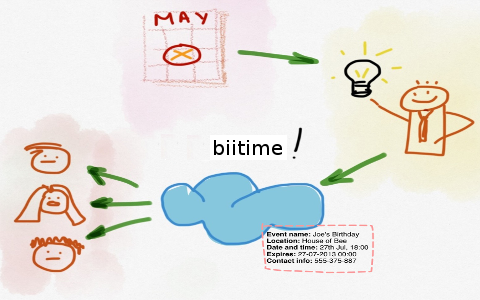
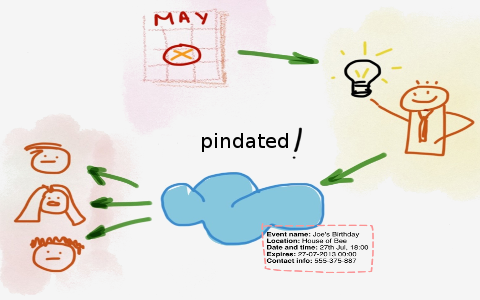
Changed name

Changed region(s): [[0.4062, 0.45, 0.625, 0.54]]

diff --git a/index_es.html b/index_es.html
@@ -2,7 +2,7 @@
 <html lang="es">
   <head>
     <meta charset="utf-8">
-    <title>biitime</title>
+    <title>pindated</title>
     <meta name="viewport" content="width=device-width, initial-scale=1.0">
     <link rel="stylesheet" href="https://d396qusza40orc.cloudfront.net/startup%2Fcode%2Fbootstrap-combined.no-icons.min.css">
     <link rel="stylesheet" href="http://netdna.bootstrapcdn.com/font-awesome/3.2.1/css/font-awesome.css">
@@ -109,7 +109,7 @@
             <span class="icon-bar"></span>
             <span class="icon-bar"></span>
           </button>
-          <a class="brand" href="#">biitime</a>
+          <a class="brand" href="#">pindated</a>
           <div class="nav-collapse collapse">
             <ul class="nav">
               <li class="active"><a href="#">Home</a></li>
@@ -125,7 +125,7 @@
     <div class="container">
       <div class="row-fluid heading">
 	<div class="span12">
-	  <h1>biitime</h1>
+	  <h1>pindated</h1>
 	</div>
       </div>
       <div class="row-fluid subheading">
@@ -190,7 +190,7 @@
 		 	<ul>
 		 		<li>Puedes crear y gestionar tus eventos virtuales y tus encuentros.</li>
 		 		<li>La informaci&oacute;n se mantendr&aacute; privada y se borrar&aacute; cuando el evento caduque.</li>
-		 		<li>Ser&aacute; necesaria una invitaci&oacute;n para unirse a los eventos. Puedes aceptarla o rechazarla, <span style="font-weight:bold">biitime</span> se har&aacute; cargo.</li>
+		 		<li>Ser&aacute; necesaria una invitaci&oacute;n para unirse a los eventos. Puedes aceptarla o rechazarla, <span style="font-weight:bold">pindated</span> se har&aacute; cargo.</li>
 		 		<li>Los usuarios registrados podr&aacute;n unirse con un simple click. Podr&aacute;s crearte una cuenta de usuario si lo deseas.</li>
 		 		<li>Y lo m&aacute;s importante, los eventos tienen una fecha l&iacute;mite: Expirar&aacute;n una vez que finalicen!</li>	 				 	
 		 	</ul>
@@ -201,7 +201,7 @@
       <div class="row-fluid section2">
         <div class="span5 offset1 copy copy-right">
 	  <p>
-			&iquest; Por qu&eacute; es <span style="font-weight:bold">biitime</span> de inter&eacute;s para m&iacute; ?<br/>
+			&iquest; Por qu&eacute; es <span style="font-weight:bold">pindated</span> de inter&eacute;s para m&iacute; ?<br/>
 			Puedes unirte o crear eventos sin tener que compartir todo tu historial:
 			<ul>
 				<li>El entrenador puede organizar el pr&oacute;ximo partido f&aacute;cilmente con todo el equipo.<br/>
@@ -209,7 +209,7 @@
 				<li>Puedes organizar una fiesta de cumplea&ntilde;os con todos los padres de la clase.<br/>
 					... Sabr&aacute;s f&aacute;cilmente cu&aacute;ntos ni&ntilde;os asistir&aacute;n !</li>
 				<li>&iquest; Te vas a casar pronto ?<br/>
-					... Deja de lado las aburridas listas de correo, usa <span style="font-weight:bold">biitime</span>.<br/>
+					... Deja de lado las aburridas listas de correo, usa <span style="font-weight:bold">pindated</span>.<br/>
 					... Sabr&aacute;s cu&aacute;ntos amigos han confirmado el evento, no tendr&aacute;s ninguna sorpresa!</li>
 			</ul> 
 	  </p>

diff --git a/index.html b/index.html
@@ -2,7 +2,7 @@
 <html lang="en">
   <head>
     <meta charset="utf-8">
-    <title>biitime</Title>
+    <title>pindated</Title>
     <meta name="viewport" content="width=device-width, initial-scale=1.0">
     <link rel="stylesheet" href="https://d396qusza40orc.cloudfront.net/startup%2Fcode%2Fbootstrap-combined.no-icons.min.css">
     <link rel="stylesheet" href="http://netdna.bootstrapcdn.com/font-awesome/3.2.1/css/font-awesome.css">
@@ -109,7 +109,7 @@
             <span class="icon-bar"></span>
             <span class="icon-bar"></span>
           </button>
-          <a class="brand" href="#">biitime</a>
+          <a class="brand" href="#">pindated</a>
           <div class="nav-collapse collapse">
             <ul class="nav">
               <li class="active"><a href="#">Home</a></li>
@@ -125,7 +125,7 @@
     <div class="container">
       <div class="row-fluid heading">
 	<div class="span12">
-	  <h1>biitime</h1>
+	  <h1>pindated</h1>
 	</div>
       </div>
       <div class="row-fluid subheading">
@@ -190,7 +190,7 @@
 		 	<ul>
 		 		<li>You can create and manage your own virtual events and affairs.</li>
 		 		<li>The information will be held private and will be deleted once expired.</li>
-		 		<li>An invitation is required to join the events. You can refuse it or accept it, <span style="font-weight:bold">biitime</span> will keep the count.</li>
+		 		<li>An invitation is required to join the events. You can refuse it or accept it, <span style="font-weight:bold">pindated</span> will keep the count.</li>
 		 		<li>Registered users may join an event with one click. Otherwise you need to create an account.</li>
 		 		<li>The most important, an event has a deadline: it will expire once finished !</li>	 				 	
 		 	</ul>
@@ -201,7 +201,7 @@
       <div class="row-fluid section2">
         <div class="span5 offset1 copy copy-right">
 	  <p>
-			Why is <span style="font-weight:bold">biitime</span> interesting to me?<br/>
+			Why is <span style="font-weight:bold">pindated</span> interesting to me?<br/>
 			You can join or create events without having to share all your wall:
 			<ul>
 				<li>The coach can schedule the next game easily with all the team.<br/>
@@ -209,7 +209,7 @@
 				<li>You can share a birthday party with all the parents in the class.<br/>
 					... You will know easily how many children will assist !</li>
 				<li>Are you going to be married soon ??<br/>
-					... Put aside the boring email lists, use <span style="font-weight:bold">biitime</span> instead.<br/>
+					... Put aside the boring email lists, use <span style="font-weight:bold">pindated</span> instead.<br/>
 					... You may know how many friends will attend so there won't be any surprise !</li>
 			</ul> 
 	  </p>
